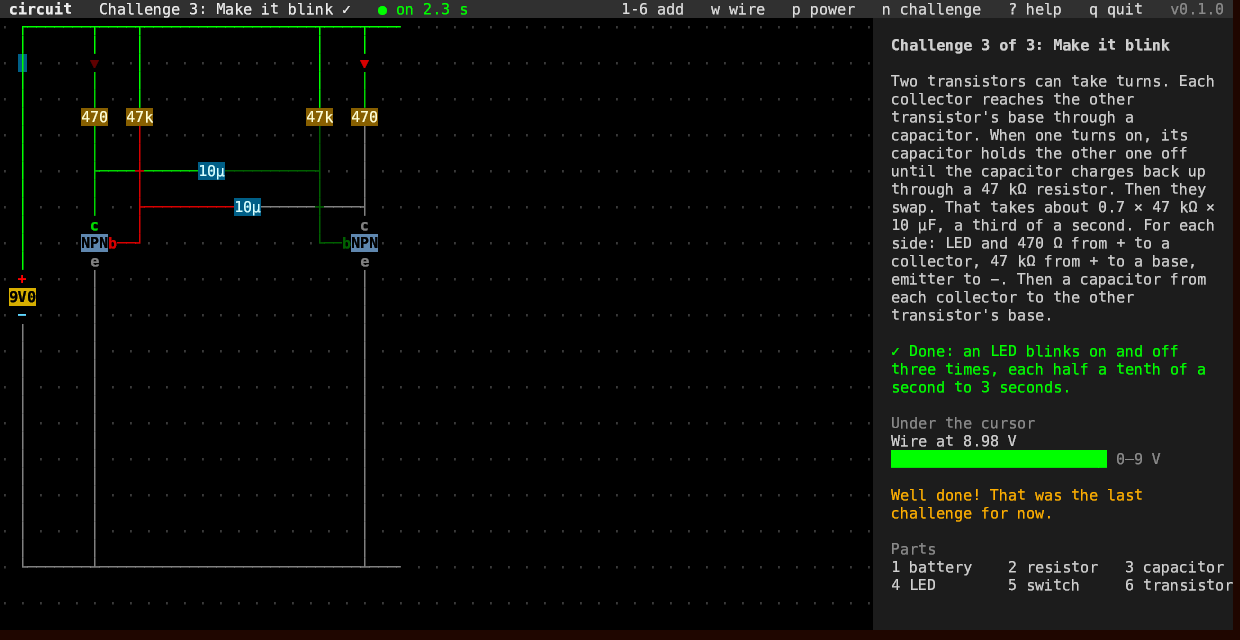
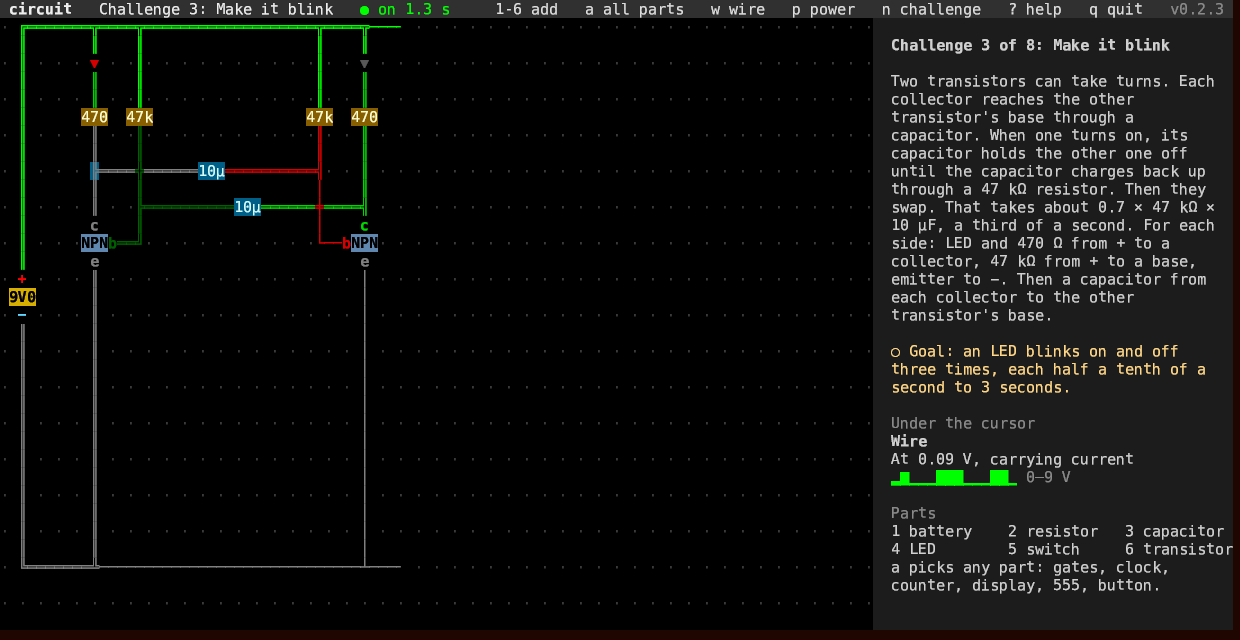
Wires carrying current turn to double lines (v0.2.3)
The colour still shows voltage, so the wire after a lit LED stays gray,
but its double lines now show the current flowing back to the battery.
A joined crossing is drawn as a dot, as on a schematic.

diff --git a/src/main.rs b/src/main.rs
@@ -10,7 +10,7 @@ mod board;
 mod lessons;
 mod sim;
 
-use std::collections::VecDeque;
+use std::collections::{HashMap, VecDeque};
 use std::path::PathBuf;
 use std::time::{Duration, Instant};
 
@@ -29,6 +29,8 @@ const TICK_MS: u64 = 100;
 /// A node that moves less than this in a whole tick has settled.
 const SETTLED: f64 = 1e-6;
 const TRACE_N: usize = 36;
+/// A wire carrying more than this many amps is drawn with double lines.
+const CARRY_MIN: f64 = 1e-5;
 
 fn main() {
     let args: Vec<String> = std::env::args().skip(1).collect();
@@ -89,9 +91,11 @@ struct App {
     shown: [String; 3],
     /// The board rows on screen; only rows that differ are written.
     rows: Vec<String>,
-    /// Wire colours and LED brightness as last drawn. While a circuit
-    /// runs, the board is only rebuilt when one of them changes.
+    /// Wire colours, LED brightness and currents as last drawn. While a
+    /// circuit runs, the board is only rebuilt when one of them changes.
     look: Vec<u8>,
+    /// Wire and pin cells carrying current, as last drawn.
+    carry: HashMap<(i32, i32), u8>,
     /// A key was pressed: the board must be rebuilt.
     dirty: bool,
     /// A pressed button and when it lets go.
@@ -110,7 +114,7 @@ impl App {
             net, sim: None, steady: true, last: Instant::now(), trace: VecDeque::new(),
             progress: Progress::default(),
             done: (0..=LESSONS.len()).map(|i| done.split_whitespace().any(|d| d == i.to_string())).collect(),
-            note: None, reset_armed: false, shown: Default::default(), rows: Vec::new(), look: Vec::new(), dirty: true,
+            note: None, reset_armed: false, shown: Default::default(), rows: Vec::new(), look: Vec::new(), carry: HashMap::new(), dirty: true,
             release: None,
         };
         app.changed();
@@ -444,6 +448,7 @@ impl App {
         }
         let look = self.look();
         if self.dirty || look != self.look {
+            self.carry = self.carrying();
             let lines = self.board_lines(bw, bh);
             if self.rows.len() != lines.len() { self.rows = vec![String::new(); lines.len()]; }
             let mut frame = String::new();
@@ -475,7 +480,7 @@ impl App {
     }
 
     /// Everything on the board that the solver can change: each node's
-    /// wire colour and each LED's brightness step.
+    /// wire colour, each LED's brightness step, and which parts carry current.
     fn look(&self) -> Vec<u8> {
         let Some(sim) = self.sim.as_ref().filter(|_| self.power) else { return Vec::new() };
         let vmax = self.vmax();
@@ -484,6 +489,7 @@ impl App {
             if let Some(part) = self.board.part(p).filter(|x| x.kind == Kind::Led) {
                 out.push(if part.burnt { 255 } else { led_color(part.color, (sim.current[d] / LED_FULL).clamp(0.0, 1.0)) });
             }
+            out.push((sim.current[d].abs() > CARRY_MIN) as u8 | ((sim.base[d].abs() > CARRY_MIN) as u8) << 1);
             let l = sim.logic[d];
             out.push(l.out.iter().enumerate().fold(l.on as u8, |acc, (k, &b)| acc | (b as u8) << (k + 1)));
             out.push(l.value);
@@ -553,15 +559,40 @@ impl App {
         }).collect()
     }
 
-    /// One cell: character, colour, background, bold.
+    /// Wire and pin cells carrying current, as `Board::carrying` marks them.
+    fn carrying(&self) -> HashMap<(i32, i32), u8> {
+        let Some(sim) = self.sim.as_ref().filter(|_| self.power) else { return HashMap::new() };
+        let mut flow: HashMap<(usize, usize), f64> = HashMap::new();
+        for (d, node, amps) in sim.flows(&self.net.circuit) { *flow.entry((d, node)).or_insert(0.0) += amps; }
+        let mut into = HashMap::new();
+        for (d, &i) in self.net.dev_part.iter().enumerate() {
+            let Some(p) = self.board.part(i) else { continue };
+            for at in p.pins() {
+                let amps = self.net.node_of.get(&at).and_then(|&node| flow.get(&(d, node)));
+                if let Some(&amps) = amps { into.insert(at, amps); }
+            }
+        }
+        self.board.carrying(&into, CARRY_MIN)
+    }
+
+    /// One cell: character, colour, background, bold. A wire carrying
+    /// current is drawn with double lines.
     fn glyph(&self, at: (i32, i32), vmax: f64) -> (char, u8, Option<u8>, bool) {
         const BOX: [char; 16] = ['•', '╵', '╶', '└', '╷', '│', '┌', '├', '╴', '┘', '─', '┴', '┐', '┤', '┬', '┼'];
+        const DOUBLE: [char; 16] = ['•', '║', '═', '╚', '║', '║', '╔', '╠', '═', '╝', '═', '╩', '╗', '╣', '╦', '╬'];
         let wire_color = || self.volt_color(at, vmax);
+        let lines = |mask: u8, pin: bool| {
+            let flows = self.carry.get(&at).copied().unwrap_or(0);
+            if !pin && board::crossing(mask) {
+                // Up-down wire, left-right wire, or both carrying.
+                ['┼', '╫', '╪', '╬'][flows as usize & 3]
+            } else if flows != 0 { DOUBLE[mask as usize & 15] } else { BOX[mask as usize & 15] }
+        };
         match self.board.cells.get(&at) {
             // Spaces share the dots' colour, so an empty row needs one colour code, not one per cell.
             None => (if at.0 % 2 == 0 && at.1 % 2 == 0 { '·' } else { ' ' }, 237, None, false),
-            Some(Cell::Wire(m)) if *m & JOIN != 0 && *m & 15 == 15 => ('╋', wire_color(), None, true),
-            Some(Cell::Wire(m)) => (BOX[*m as usize & 15], wire_color(), None, false),
+            Some(Cell::Wire(m)) if *m & JOIN != 0 && *m & 15 == 15 => ('●', wire_color(), None, true),
+            Some(Cell::Wire(m)) => (lines(*m, false), wire_color(), None, false),
             Some(Cell::Pin(i, k, m)) => {
                 let Some(p) = self.board.part(*i) else { return ('?', 196, None, false) };
                 if let Some(plus) = p.kind.power_pin() {
@@ -575,7 +606,7 @@ impl App {
                     Kind::Not => (['a', 'q'][*k], wire_color(), None, true),
                     Kind::Clock => ('q', wire_color(), None, true),
                     kind if kind.gate().is_some() => (['a', 'b', 'q'][*k], wire_color(), None, true),
-                    _ => (BOX[(*m | p.inward(at)) as usize & 15], wire_color(), None, false),
+                    _ => (lines(*m | p.inward(at), true), wire_color(), None, false),
                 }
             }
             Some(Cell::Body(i)) => {
@@ -731,7 +762,10 @@ impl App {
             let (what, line) = match (self.board.cells.get(&self.cur), sim, self.net.node_of.get(&self.cur)) {
                 (Some(Cell::Wire(m)), _, _) if board::crossing(*m) => ("Crossing wires", "They do not touch. . joins them.".into()),
                 (Some(Cell::Wire(m)), _, _) if *m & 15 == 15 => ("Joined wires", ". separates them.".into()),
-                (Some(Cell::Wire(_)), Some(s), Some(&n)) => ("Wire", format!("At {}", volts(s.v[n]))),
+                (Some(Cell::Wire(_)), Some(s), Some(&n)) => {
+                    let carrying = if self.carry.contains_key(&self.cur) { ", carrying current" } else { ", no current" };
+                    ("Wire", format!("At {}{carrying}", volts(s.v[n])))
+                }
                 (Some(Cell::Wire(_)), _, _) => ("Wire", "x deletes it.".into()),
                 _ if self.pen => ("Empty", "Move to draw a wire. w or Esc stops.".into()),
                 _ => ("Empty", "Press 1 to 6 or a to add a part here, or w to draw a wire.".into()),
@@ -865,7 +899,8 @@ const HELP: &str = "
   q                  quit (the board is kept)
 
   Wires glow green with voltage, brighter for higher,
-  and red below zero. LEDs glow with their current.
+  and red below zero. A wire carrying current has
+  double lines. LEDs glow with their current.
   Every chip needs its + and − wired to a battery.
   An input reads high above 60% of that voltage
   and low below 40%.

diff --git a/src/board.rs b/src/board.rs
@@ -458,6 +458,57 @@ impl Board {
         }
     }
 
+    /// Which wire and pin cells carry more than `min` amps. `into` holds
+    /// the amps each pin cell pushes into its wire. Bit 1: the cell carries
+    /// current (for a crossing, its up-down wire); bit 2: a crossing's
+    /// left-right wire does.
+    pub fn carrying(&self, into: &HashMap<(i32, i32), f64>, min: f64) -> HashMap<(i32, i32), u8> {
+        // A point is a cell, and for a crossing which of its two wires.
+        let point = |at: (i32, i32), dir: u8| (at, crossing(self.mask(at).unwrap_or(0)) && (dir == E || dir == W));
+        let mut parent: HashMap<((i32, i32), bool), Option<((i32, i32), bool)>> = HashMap::new();
+        let mut carry = HashMap::new();
+        for (&at, cell) in &self.cells {
+            if matches!(cell, Cell::Body(_)) { continue; }
+            let m = self.mask(at).unwrap_or(0);
+            let starts = if crossing(m) { vec![(at, false), (at, true)] } else { vec![(at, false)] };
+            for start in starts {
+                if parent.contains_key(&start) { continue; }
+                // Walk this wire, then add up from the far ends back: the
+                // current through each step is all that joins beyond it.
+                parent.insert(start, None);
+                let mut order = vec![start];
+                let mut k = 0;
+                while k < order.len() {
+                    let (at, across) = order[k];
+                    k += 1;
+                    let m = self.mask(at).unwrap_or(0);
+                    let dirs = if !crossing(m) { [N, E, S, W] } else if across { [E, W, 0, 0] } else { [N, S, 0, 0] };
+                    for d in dirs.into_iter().filter(|&d| d != 0 && m & d != 0) {
+                        let (dx, dy) = offset(d);
+                        let nb = (at.0 + dx, at.1 + dy);
+                        if self.mask(nb).is_some_and(|nm| nm & opposite(d) != 0) {
+                            let next = point(nb, opposite(d));
+                            if !parent.contains_key(&next) {
+                                parent.insert(next, Some((at, across)));
+                                order.push(next);
+                            }
+                        }
+                    }
+                }
+                let mut sum: HashMap<((i32, i32), bool), f64> = HashMap::new();
+                for &pt in order.iter().rev() {
+                    let amps = sum.get(&pt).copied().unwrap_or(0.0) + if pt.1 { 0.0 } else { into.get(&pt.0).copied().unwrap_or(0.0) };
+                    let Some(Some(up)) = parent.get(&pt).copied() else { continue };
+                    if amps.abs() > min {
+                        for (c, across) in [pt, up] { *carry.entry(c).or_insert(0) |= if across { 2 } else { 1 }; }
+                    }
+                    *sum.entry(up).or_insert(0.0) += amps;
+                }
+            }
+        }
+        carry
+    }
+
     pub fn to_text(&self) -> String {
         let mut out = String::new();
         for p in self.parts.iter().flatten() {
@@ -615,6 +666,34 @@ mod tests {
         assert!(b.place(Part::new(Kind::Resistor, 2, 3)).is_none(), "the display's body is taken");
         let back = Board::from_text(&b.to_text());
         assert_eq!(back.parts.iter().flatten().next().map(|p| p.kind), Some(Kind::Display));
+    }
+
+    /// Lay wire from `at` along `moves` (U, D, L, R).
+    fn lay(b: &mut Board, mut at: (i32, i32), moves: &str) {
+        for c in moves.chars() {
+            let dir = match c { 'U' => N, 'D' => S, 'L' => W, _ => E };
+            assert!(b.wire(at, dir), "wire from {at:?} toward {c}");
+            let (dx, dy) = offset(dir);
+            at = (at.0 + dx, at.1 + dy);
+        }
+    }
+
+    #[test]
+    fn current_follows_the_loop_and_skips_dead_ends_and_crossing_wires() {
+        let mut b = Board::default();
+        let mut battery = Part::new(Kind::Battery, 0, 5);
+        battery.orient = 2; // + (1,4), − (1,6)
+        b.place(battery).unwrap();
+        b.place(Part::new(Kind::Resistor, 5, 2)).unwrap(); // (4,2) and (8,2)
+        lay(&mut b, (1, 4), "UURRR");
+        lay(&mut b, (8, 2), &format!("R{}{}UU", "D".repeat(6), "L".repeat(8)));
+        lay(&mut b, (2, 2), "UU"); // a dead end off the + wire
+        lay(&mut b, (7, 5), "RRRR"); // a loose wire crossing the way back at (9,5)
+        let into = HashMap::from([((1, 4), 0.01), ((4, 2), -0.01), ((8, 2), 0.01), ((1, 6), -0.01)]);
+        let carry = b.carrying(&into, 1e-5);
+        for at in [(1, 3), (2, 2), (4, 2), (9, 8), (1, 6)] { assert_eq!(carry.get(&at), Some(&1), "{at:?} carries"); }
+        for at in [(2, 1), (2, 0), (8, 5), (10, 5)] { assert!(!carry.contains_key(&at), "{at:?} carries nothing"); }
+        assert_eq!(carry.get(&(9, 5)), Some(&1), "only the up-down wire of the crossing carries");
     }
 
     #[test]

diff --git a/src/sim.rs b/src/sim.rs
@@ -319,6 +319,45 @@ impl Sim {
         changed
     }
 
+    /// The amps each device pushes into each node it touches, as (device,
+    /// node, amps). Negative where current leaves the node into the device.
+    pub fn flows(&self, c: &Circuit) -> Vec<(usize, usize, f64)> {
+        let v = &self.v;
+        let mut out = Vec::new();
+        for (di, d) in c.devs.iter().enumerate() {
+            let i = self.current[di];
+            match *d {
+                Dev::Battery { p, n, .. } => out.extend([(di, p, i), (di, n, -i)]),
+                Dev::Resistor { a, b, .. } | Dev::Capacitor { a, b, .. } | Dev::Switch { a, b, .. } | Dev::Led { a, k: b, .. } => {
+                    out.extend([(di, a, -i), (di, b, i)]);
+                }
+                Dev::Npn { c: col, b, e } => out.extend([(di, col, -i), (di, b, -self.base[di]), (di, e, i + self.base[di])]),
+                _ => {
+                    let (Some((plus, minus)), l) = (d.supply(), self.logic[di]) else { continue };
+                    if !l.on { continue; }
+                    // An output, or the 555's discharge, joined through `ohms` to `to`.
+                    let mut push = |node: usize, to: usize, ohms: f64| {
+                        let amps = (v[to] - v[node]) / ohms;
+                        out.extend([(di, node, amps), (di, to, -amps)]);
+                    };
+                    let rail = |high: bool| if high { plus } else { minus };
+                    match *d {
+                        Dev::Gate { q, .. } | Dev::Clock { q, .. } => push(q, rail(l.out[0]), OUT_R),
+                        Dev::Counter { q, .. } => {
+                            for (k, &node) in q.iter().enumerate() { push(node, rail(l.out[k]), OUT_R); }
+                        }
+                        Dev::Timer { dis, out: o, .. } => {
+                            push(o, rail(l.out[0]), OUT_R);
+                            if !l.out[0] { push(dis, minus, DIS_R); }
+                        }
+                        _ => {}
+                    }
+                }
+            }
+        }
+        out
+    }
+
     /// Currents from the settled voltages, capacitor memory, burnt LEDs.
     fn measure(&mut self, c: &Circuit, dt: f64) {
         let v = &self.v;
@@ -481,6 +520,26 @@ mod tests {
         let s = run(&c, 0.01);
         assert!(!s.logic[1].on && s.v[2].abs() < 1e-3, "unpowered output {}", s.v[2]);
         assert!(s.current[0].abs() < 1e-6, "the battery gives nothing: {}", s.current[0]);
+    }
+
+    #[test]
+    fn the_currents_into_every_node_add_up_to_zero() {
+        // 1 plus, 2 LED anode, 3 collector, 4 base, 5 gate output.
+        let c = Circuit { nodes: 6, ground: 0, devs: vec![
+            Dev::Battery { p: 1, n: 0, volts: 9.0 },
+            Dev::Resistor { a: 1, b: 2, ohms: 470.0 },
+            Dev::Led { a: 2, k: 3, color: LedColor::Red, burnt: false },
+            Dev::Npn { c: 3, b: 4, e: 0 },
+            Dev::Resistor { a: 5, b: 4, ohms: 10_000.0 },
+            Dev::Gate { gate: Gate::And, a: 1, b: 1, q: 5, plus: 1, minus: 0 },
+        ]};
+        let s = run(&c, 0.05);
+        assert!(s.current[2] > 0.01, "the LED is on: {}", s.current[2]);
+        let mut sum = [0.0; 6];
+        for (_, node, amps) in s.flows(&c) { sum[node] += amps; }
+        for (node, total) in sum.iter().enumerate().skip(1) {
+            assert!(total.abs() < 1e-5, "node {node} is off by {total} A");
+        }
     }
 
     #[test]

diff --git a/README.md b/README.md
@@ -10,9 +10,9 @@ Put batteries, resistors, capacitors, LEDs, switches and transistors on a
 grid, wire them up and power on. Then move on to logic chips: gates, a
 clock, a counter, a digit display and the 555 timer.
 
-Every voltage and current is worked out as you watch: wires glow green
-with voltage, LEDs light up with their current, and an LED with no
-resistor burns out. Challenges teach one idea at a time, and each one
+Every voltage and current is worked out as you watch. Wires glow green
+with voltage and turn to double lines where current flows. LEDs light
+up with their current, and an LED with no resistor burns out. Challenges teach one idea at a time, and each one
 ticks itself off when your circuit works.
 
 The panel on the right names what the cursor is on, down to the pin, and
@@ -21,7 +21,7 @@ what it is doing.
 Part of the [Fe₂O₃ suite](https://isene.github.io/fe2o3/). Built on
 [crust](https://github.com/isene/crust).
 
-![A two-transistor blinker running, the third challenge done](img/screenshot.png)
+![A two-transistor blinker: the lit LED's whole loop in double lines, the cursor on the wire after it](img/screenshot.png)
 
 ## The challenges
 
@@ -89,9 +89,14 @@ high above 60% of the chip's voltage and low below 40%.
 Real parts are never exactly their marked value, so each one is off by up
 to 1%. That is also what lets a blinker pick a side and start.
 
+A wire's colour shows its voltage, so the wire after a lit LED is gray:
+the LED and its resistor have used up the battery's 9 volts. The same
+current still flows through it back to the battery, and its double lines
+show that.
+
 The solver runs only while the power is on and something is still
-changing. A circuit that has settled costs nothing. A blinking one costs
-about 16 ms of processor time a second, and the running stopwatch about 5.
+changing. A circuit that has settled costs nothing. A blinking circuit or
+the running stopwatch costs about 16 to 18 ms of processor time a second.
 
 ## Install
 
